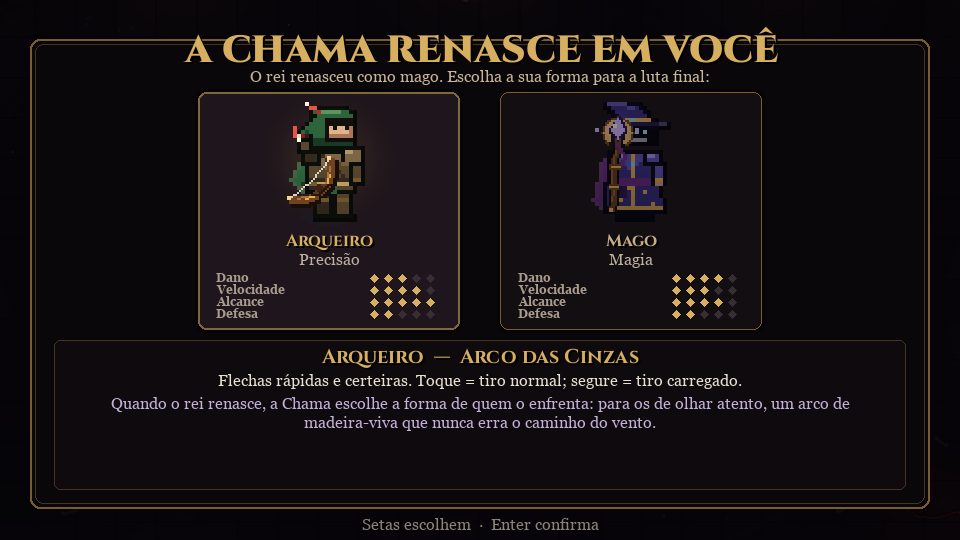
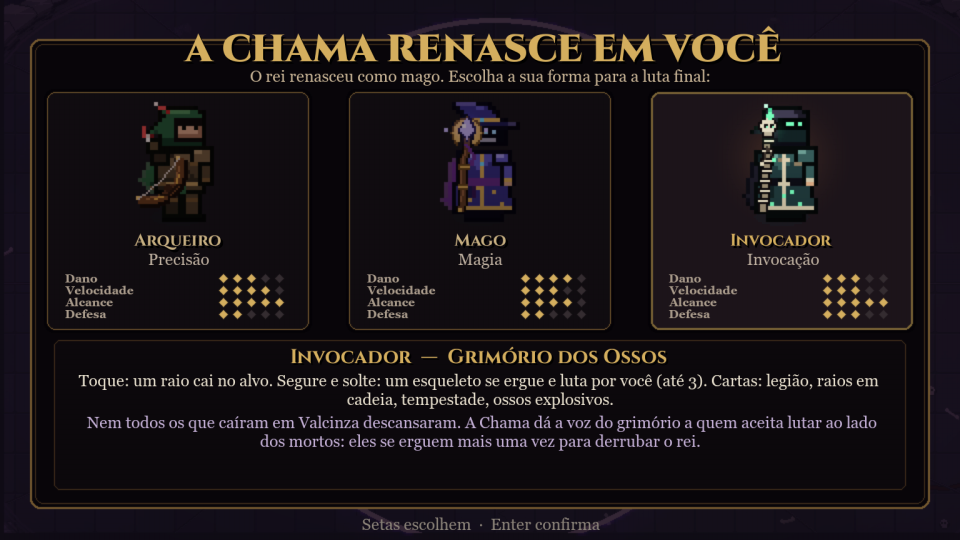
Versão 1.2.0: Invocador, santuário nos céus e imagens novas

diff --git a/README.md b/README.md
@@ -7,7 +7,7 @@ tempo certo e derrube o **Rei das Cinzas**. E, se ele renascer das próprias cin
 
 ## Baixar e jogar
 
-1. Vá em **[Releases](../../releases/latest)** e baixe `Instalar_AshenThrone_v1.1.0.exe`.
+1. Vá em **[Releases](../../releases)** e baixe `Instalar_AshenThrone_v1.2.0.exe`.
 2. Abra o instalador e clique em **Instalar**. Não precisa de administrador (funciona em computador de escola).
 3. Jogue pelo atalho **Ashen Throne** na Área de Trabalho ou no Menu Iniciar.
 
@@ -28,10 +28,13 @@ Os recordes ficam guardados, a não ser que você marque para apagar.
 | **Adagas Duplas** | Muito rápido, mais crítico e menos vida |
 | **Espada Larga** | Lento e devastador; o Giro Colossal acerta em volta |
 
-Quando o rei renasce, a Chama oferece a forma final: **Arqueiro** (flechas e tiro carregado) ou
-**Mago** (bolas de energia que perseguem o alvo e, carregando, uma rajada de 4 bolas).
+Quando o rei cai, ele renasce como mago e **leva a arena para os céus**: a luta final é numa ilha de
+pedra flutuando entre as estrelas. A Chama oferece a forma final: **Arqueiro** (flechas e tiro
+carregado), **Mago** (bolas de energia que perseguem o alvo e, carregando, uma rajada de 4 bolas) ou
+**Invocador** (raios e esqueletos que lutam por você).
 
 ![Forma final](imagens/forma_final.png)
+![Nos céus](imagens/ceus.png)
 ![Lutas](imagens/lutas.png)
 
 ## Controles
